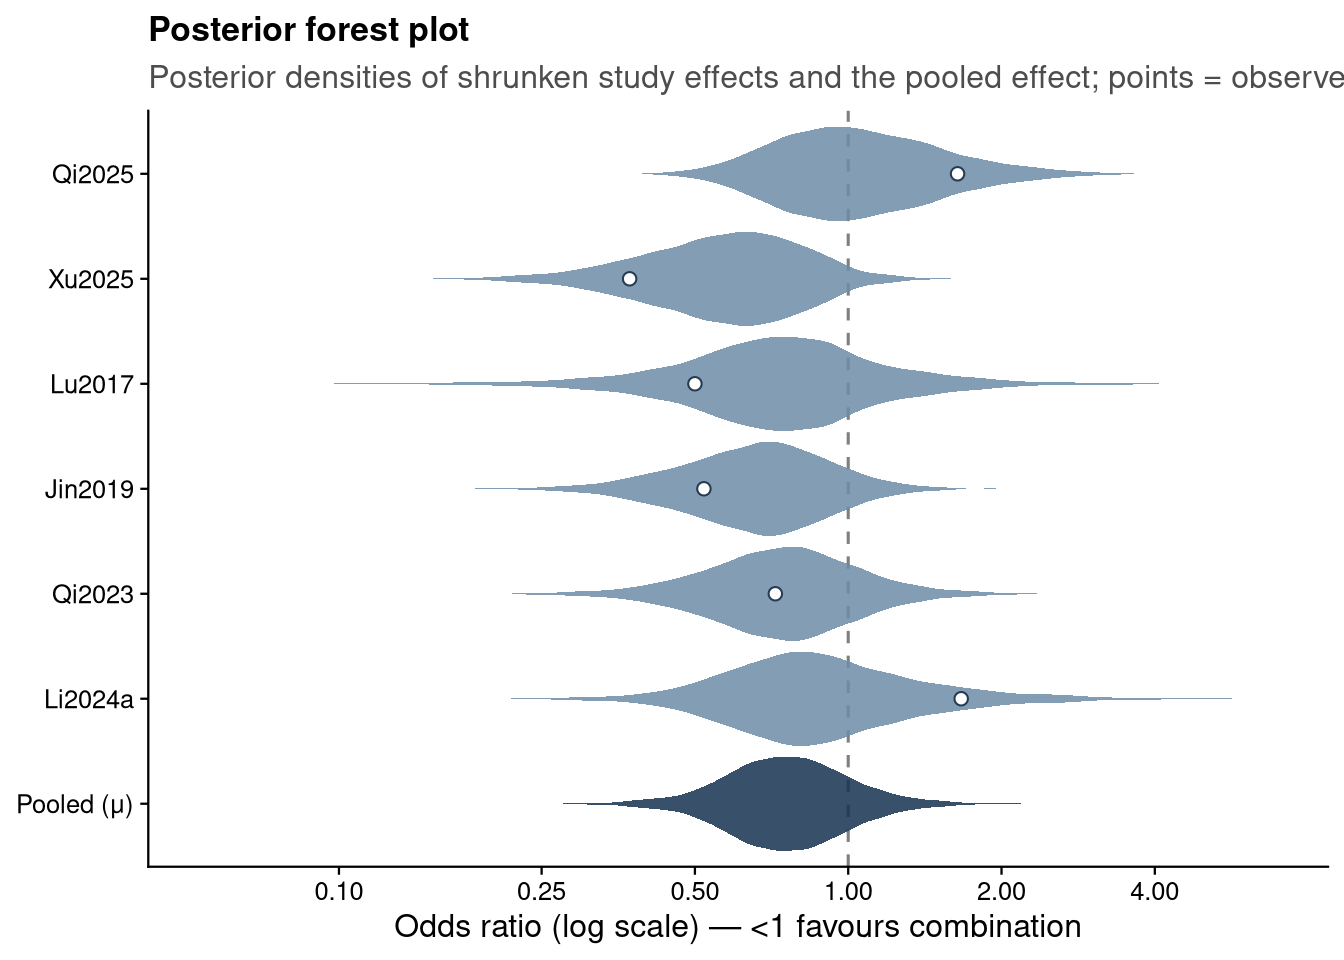
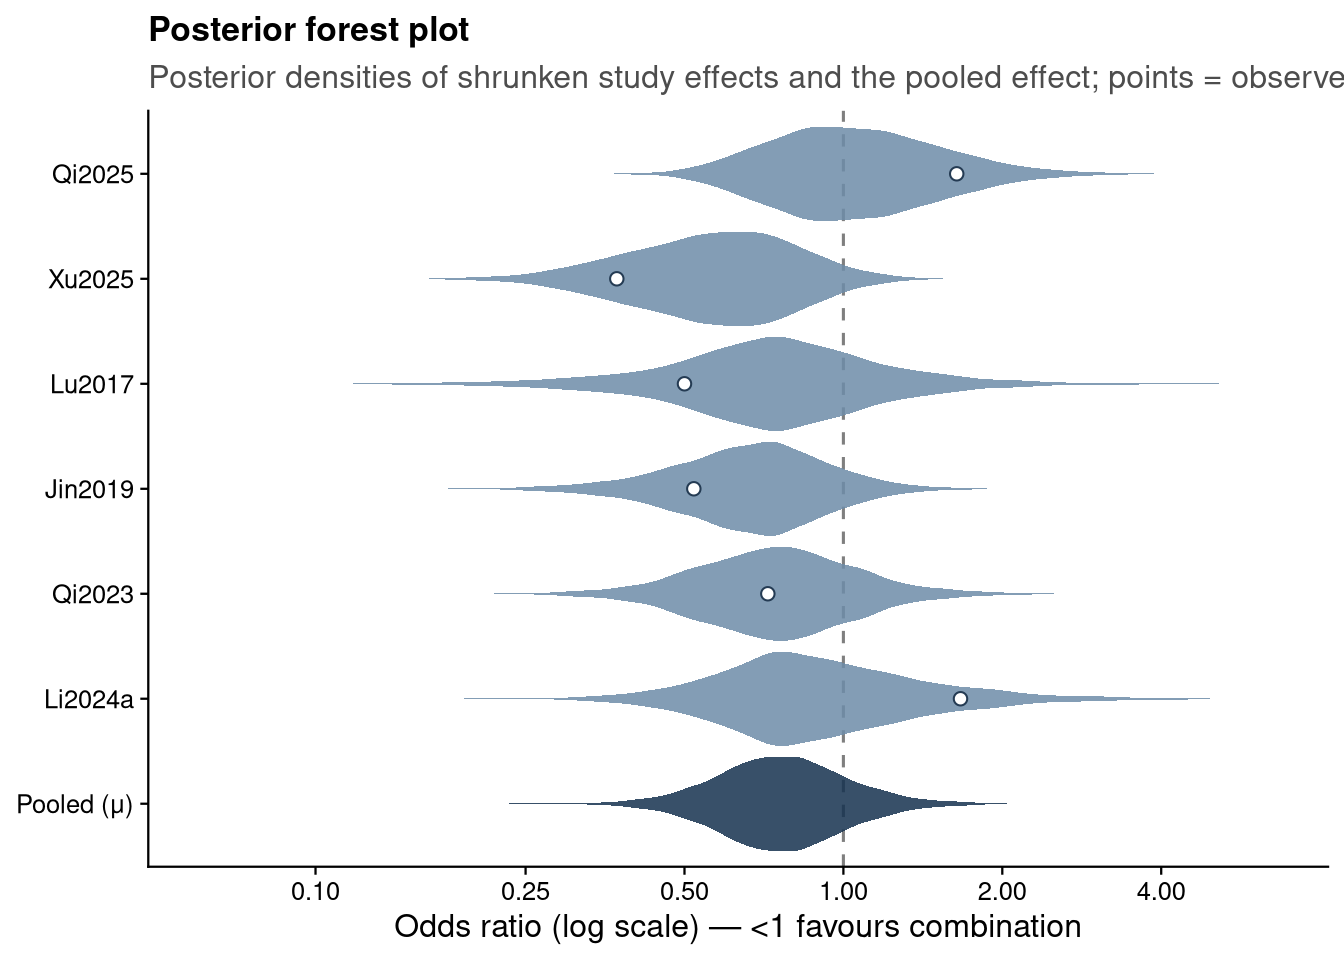
Built site for gh-pages

diff --git a/prisma.html b/prisma.html
@@ -259,7 +259,7 @@ pre > code.sourceCode > span > a:first-child::before { text-decoration: underlin
 <span id="cb1-4"><a href="#cb1-4" aria-hidden="true" tabindex="-1"></a>                   <span class="at">meta_analysis =</span> <span class="cn">TRUE</span>, <span class="at">fontsize =</span> <span class="dv">10</span>)</span></code></pre></div><button title="Copy to Clipboard" class="code-copy-button"><i class="bi"></i></button></div>
 </details>
 <div class="cell-output-display">
-<div class="grViz html-widget html-fill-item" id="htmlwidget-4d4596916db57c328fc7" style="width:100%;height:464px;"></div>
+<div class="grViz html-widget html-fill-item" id="htmlwidget-56a14505726e31d2edaa" style="width:100%;height:464px;"></div>
 <script>
 HTMLWidgets.addPostRenderHandler(function() {
 
@@ -278,7 +278,7 @@ HTMLWidgets.addPostRenderHandler(function() {
     
 });
 </script>
-<script type="application/json" data-for="htmlwidget-4d4596916db57c328fc7">{"x":{"diagram":"digraph TD {\n        graph[\n          splines = ortho,\n          layout = neato,\n          tooltip = \"Click the boxes for further information\",\n          outputorder = edgesfirst,\n        ]node [\n        shape = box,\n        fontsize = 10,\n        fontname = Helvetica,\n        color = Goldenrod1\n      ]\n      identification [\n        color = LightSteelBlue2,\n        label = \" \",\n        style = \"filled,rounded\",\n        pos = \"0,7.875!\",\n        width = 0.4,\n        height = 1.75,\n        tooltip = \"Blue identification box\"\n      ];\n      screening [\n        color = LightSteelBlue2,\n        label = \" \",\n        style = \"filled,rounded\",\n        pos = \"0,4.375!\",\n        width = 0.4,\n        height = 3.75,\n        tooltip = \"Blue screening box\"\n      ];\n      included [\n        color = LightSteelBlue2,\n        label = \" \",\n        style = \"filled,rounded\",\n        pos = \"0,0.25!\",\n        width = 0.4,\n        height = 3.5,\n        tooltip = \"Blue included box\"\n      ];\nnode [\n        shape = box,\n        fontsize = 10,\n        fontname = Helvetica,\n        color = Goldenrod1]\n        3 [\n          label = \"Identification of new studies via databases and registers\",\n          style = \"rounded,filled\",\n          width = 7.5,\n          height = 0.4,\n          pos = \"4.25,9.2!\",\n      tooltip = \"Yellow title box; Identification of new studies via databases and registers\"\n      ]\n        node [\n          shape = box,\n          fontname = Helvetica,\n          color = Black]\n        4 [\n          label = \"Records identified from:\nDatabases (n = 172)\nRegisters (n = 0)\",\n          width = 3.5,\n          height = 0.75,\n          pos = \"2.25,7.875!\",\n          tooltip = \"Records identified from: Databases and Registers\"\n        ]\n        node [\n          shape = box,\n          fontname = Helvetica,\n          color = Black]\n        5 [\n          label = \"Records removed before screening:\nDuplicate records (n = 0)\nRecords marked as ineligible by automation\ntools (n = 0)\nRecords removed for other reasons (n = 0)\",\n          width = 3.5,\n          height = 0.5,\n          pos = \"6.25,7.875!\",\n          tooltip = \"Duplicate records\"\n        ]\n        node [\n          shape = box,\n          fontname = Helvetica,\n          color = Black\n        ]\n        6 [\n          label = \"Records screened\n(n = 172)\",\n          width = 3.5,\n          height = 0.5,\n          pos = \"2.25,6!\",\n          tooltip = \"Records screened (databases and registers)\"\n        ]\n        node [\n          shape = box,\n          fontname = Helvetica,\n          color = Black\n        ]\n        7 [\n          label = \"Records excluded\n(n = 120)\",\n          width = 3.5,\n          height = 0.5,\n          pos = \"6.25,6!\",\n          tooltip = \"Records excluded (databases and registers)\"\n        ]\n        node [\n          shape = box,\n          fontname = Helvetica,\n          color = Black]\n      8 [\n        label = \"Reports sought for retrieval\n(n = 52)\",\n        width = 3.5,\n        height = 0.5,\n        pos = \"2.25,5!\",\n        tooltip = \"Reports sought for retrieval (databases and registers)\"\n      ]\n      node [\n        shape = box,\n        fontname = Helvetica,\n        color = Black]\n      9 [\n        label = \"Reports not retrieved\n(n = 4)\",\n        width = 3.5,\n        height = 0.5,\n        pos = \"6.25,5!\",\n        tooltip = \"Reports not retrieved (databases and registers)\"\n      ]\n      node [\n        shape = box,\n        fontname = Helvetica,\n        color = Black]\n        10 [\n          label = \"Reports assessed for eligibility\n(n = 48)\",\n          width = 3.5,\n          height = 0.5,\n          pos = \"2.25,3.375!\",\n          tooltip = \"Reports assessed for eligibility (databases and registers)\"\n        ]\n        node [\n          shape = box,\n          fontname = Helvetica,\n          color = Black,\n          fillcolor = White,\n          style = filled\n        ]\n        11 [\n          label = \"Reports excluded:\nNo eligible antifungal-regimen\ncontrast (n = 11)\nDescriptive or prognostic-factor\nstudy (n = 8)\nSingle-arm case series or case\nreport (n = 7)\",\n          width = 3.5,\n          height = 0.5,\n          pos = \"6.25,3.375!\",\n      tooltip = \"Reports excluded (databases and registers)\"\n      ]\n      node [\n        shape = box,\n        fontname = Helvetica,\n        color = Black,\n      fillcolor = \"\",\n      style = solid\n      ]\n      12 [\n        label = \"New studies included in review\n(n = 21)\nReports of new included studies\n(n = 22)\",\n        width = 3.5,\n        height = 1,\n        pos = \"2.25,1!\",\n        tooltip = \"New studies included in review\"\n      ]node [\n      shape = box,\n      fontname = Helvetica,\n      color = Black,\n      fillcolor = \"\",\n      style = solid\n    ]\n    23 [\n      label = \"Total studies included in\nmeta-analysis (n = 6)\nReports of total included studies\nin meta-analysis (n = 6)\",\n      width = 3.5,\n      height = 1,\n      pos = \"2.25,-0.5!\",\n      tooltip = \"Total studies included in meta-analysis\"\n    ]node [\n        shape = square,\n        width = 0,\n        color=White\n      ]\n\n\nnode [\n        shape = square,\n        width = 0,\n        style=invis\n      ]\n      C [\n        label = \"\",\n        width = 3.5,\n        height = 0.5,\n        pos = \"6.25,3.375!\",\n        tooltip = \"\"\n      ]\n      subgraph cluster1 {\n        edge [\n          style = invis\n      ]\n      3->4;\n      3->5;\n      edge [\n        color = Black,\n        arrowhead = normal,\n        arrowtail = none,\n        style = filled\n      ]\n      4->5;\n      4->6;\n      6->7;\n      6->8;\n      8->9;\n      8->10;\n      10->C;\n      10->12;\n      edge [\n      style = invis\n      ]\n      5->7;\n      7->9;\n      9->11;\n      \n      }\nedge [\n          color = \"Black\",\n          arrowhead = \"normal\",\n          arrowtail = \"none\"\n        ]\n        12->23;\n\n\n\n{\n      rank = same; 3}\n      {\n      rank = same; 4; 5}\n        {\n          rank = same; 6; 7\n        }\n        {\n          rank = same; 8; 9}\n      {\n      rank = same; 10; 11}\n      {\n      rank = same; 12}\n      }","config":{"engine":"dot","options":null}},"evals":[],"jsHooks":[]}</script>
+<script type="application/json" data-for="htmlwidget-56a14505726e31d2edaa">{"x":{"diagram":"digraph TD {\n        graph[\n          splines = ortho,\n          layout = neato,\n          tooltip = \"Click the boxes for further information\",\n          outputorder = edgesfirst,\n        ]node [\n        shape = box,\n        fontsize = 10,\n        fontname = Helvetica,\n        color = Goldenrod1\n      ]\n      identification [\n        color = LightSteelBlue2,\n        label = \" \",\n        style = \"filled,rounded\",\n        pos = \"0,7.875!\",\n        width = 0.4,\n        height = 1.75,\n        tooltip = \"Blue identification box\"\n      ];\n      screening [\n        color = LightSteelBlue2,\n        label = \" \",\n        style = \"filled,rounded\",\n        pos = \"0,4.375!\",\n        width = 0.4,\n        height = 3.75,\n        tooltip = \"Blue screening box\"\n      ];\n      included [\n        color = LightSteelBlue2,\n        label = \" \",\n        style = \"filled,rounded\",\n        pos = \"0,0.25!\",\n        width = 0.4,\n        height = 3.5,\n        tooltip = \"Blue included box\"\n      ];\nnode [\n        shape = box,\n        fontsize = 10,\n        fontname = Helvetica,\n        color = Goldenrod1]\n        3 [\n          label = \"Identification of new studies via databases and registers\",\n          style = \"rounded,filled\",\n          width = 7.5,\n          height = 0.4,\n          pos = \"4.25,9.2!\",\n      tooltip = \"Yellow title box; Identification of new studies via databases and registers\"\n      ]\n        node [\n          shape = box,\n          fontname = Helvetica,\n          color = Black]\n        4 [\n          label = \"Records identified from:\nDatabases (n = 172)\nRegisters (n = 0)\",\n          width = 3.5,\n          height = 0.75,\n          pos = \"2.25,7.875!\",\n          tooltip = \"Records identified from: Databases and Registers\"\n        ]\n        node [\n          shape = box,\n          fontname = Helvetica,\n          color = Black]\n        5 [\n          label = \"Records removed before screening:\nDuplicate records (n = 0)\nRecords marked as ineligible by automation\ntools (n = 0)\nRecords removed for other reasons (n = 0)\",\n          width = 3.5,\n          height = 0.5,\n          pos = \"6.25,7.875!\",\n          tooltip = \"Duplicate records\"\n        ]\n        node [\n          shape = box,\n          fontname = Helvetica,\n          color = Black\n        ]\n        6 [\n          label = \"Records screened\n(n = 172)\",\n          width = 3.5,\n          height = 0.5,\n          pos = \"2.25,6!\",\n          tooltip = \"Records screened (databases and registers)\"\n        ]\n        node [\n          shape = box,\n          fontname = Helvetica,\n          color = Black\n        ]\n        7 [\n          label = \"Records excluded\n(n = 120)\",\n          width = 3.5,\n          height = 0.5,\n          pos = \"6.25,6!\",\n          tooltip = \"Records excluded (databases and registers)\"\n        ]\n        node [\n          shape = box,\n          fontname = Helvetica,\n          color = Black]\n      8 [\n        label = \"Reports sought for retrieval\n(n = 52)\",\n        width = 3.5,\n        height = 0.5,\n        pos = \"2.25,5!\",\n        tooltip = \"Reports sought for retrieval (databases and registers)\"\n      ]\n      node [\n        shape = box,\n        fontname = Helvetica,\n        color = Black]\n      9 [\n        label = \"Reports not retrieved\n(n = 4)\",\n        width = 3.5,\n        height = 0.5,\n        pos = \"6.25,5!\",\n        tooltip = \"Reports not retrieved (databases and registers)\"\n      ]\n      node [\n        shape = box,\n        fontname = Helvetica,\n        color = Black]\n        10 [\n          label = \"Reports assessed for eligibility\n(n = 48)\",\n          width = 3.5,\n          height = 0.5,\n          pos = \"2.25,3.375!\",\n          tooltip = \"Reports assessed for eligibility (databases and registers)\"\n        ]\n        node [\n          shape = box,\n          fontname = Helvetica,\n          color = Black,\n          fillcolor = White,\n          style = filled\n        ]\n        11 [\n          label = \"Reports excluded:\nNo eligible antifungal-regimen\ncontrast (n = 11)\nDescriptive or prognostic-factor\nstudy (n = 8)\nSingle-arm case series or case\nreport (n = 7)\",\n          width = 3.5,\n          height = 0.5,\n          pos = \"6.25,3.375!\",\n      tooltip = \"Reports excluded (databases and registers)\"\n      ]\n      node [\n        shape = box,\n        fontname = Helvetica,\n        color = Black,\n      fillcolor = \"\",\n      style = solid\n      ]\n      12 [\n        label = \"New studies included in review\n(n = 21)\nReports of new included studies\n(n = 22)\",\n        width = 3.5,\n        height = 1,\n        pos = \"2.25,1!\",\n        tooltip = \"New studies included in review\"\n      ]node [\n      shape = box,\n      fontname = Helvetica,\n      color = Black,\n      fillcolor = \"\",\n      style = solid\n    ]\n    23 [\n      label = \"Total studies included in\nmeta-analysis (n = 6)\nReports of total included studies\nin meta-analysis (n = 6)\",\n      width = 3.5,\n      height = 1,\n      pos = \"2.25,-0.5!\",\n      tooltip = \"Total studies included in meta-analysis\"\n    ]node [\n        shape = square,\n        width = 0,\n        color=White\n      ]\n\n\nnode [\n        shape = square,\n        width = 0,\n        style=invis\n      ]\n      C [\n        label = \"\",\n        width = 3.5,\n        height = 0.5,\n        pos = \"6.25,3.375!\",\n        tooltip = \"\"\n      ]\n      subgraph cluster1 {\n        edge [\n          style = invis\n      ]\n      3->4;\n      3->5;\n      edge [\n        color = Black,\n        arrowhead = normal,\n        arrowtail = none,\n        style = filled\n      ]\n      4->5;\n      4->6;\n      6->7;\n      6->8;\n      8->9;\n      8->10;\n      10->C;\n      10->12;\n      edge [\n      style = invis\n      ]\n      5->7;\n      7->9;\n      9->11;\n      \n      }\nedge [\n          color = \"Black\",\n          arrowhead = \"normal\",\n          arrowtail = \"none\"\n        ]\n        12->23;\n\n\n\n{\n      rank = same; 3}\n      {\n      rank = same; 4; 5}\n        {\n          rank = same; 6; 7\n        }\n        {\n          rank = same; 8; 9}\n      {\n      rank = same; 10; 11}\n      {\n      rank = same; 12}\n      }","config":{"engine":"dot","options":null}},"evals":[],"jsHooks":[]}</script>
 </div>
 </div>
 <div class="callout callout-style-default callout-note callout-titled">

diff --git a/bayesian.html b/bayesian.html
@@ -321,7 +321,7 @@ pre > code.sourceCode > span > a:first-child::before { text-decoration: underlin
 <details class="code-fold">
 <summary>Show code</summary>
 <div class="code-copy-outer-scaffold"><div class="sourceCode cell-code" id="cb3"><pre class="sourceCode r code-with-copy"><code class="sourceCode r"><span id="cb3-1"><a href="#cb3-1" aria-hidden="true" tabindex="-1"></a><span class="fu">set.seed</span>(<span class="dv">7183</span>)</span>
-<span id="cb3-2"><a href="#cb3-2" aria-hidden="true" tabindex="-1"></a>ps <span class="ot">&lt;-</span> bm_sens<span class="sc">$</span><span class="fu">rposterior</span>(<span class="at">n =</span> <span class="dv">6000</span>)   <span class="co"># columns: tau, mu (log-OR scale)</span></span>
+<span id="cb3-2"><a href="#cb3-2" aria-hidden="true" tabindex="-1"></a>ps <span class="ot">&lt;-</span> bm_sens<span class="sc">$</span><span class="fu">rposterior</span>(<span class="at">n =</span> <span class="dv">4000</span>)   <span class="co"># columns: tau, mu (log-OR scale)</span></span>
 <span id="cb3-3"><a href="#cb3-3" aria-hidden="true" tabindex="-1"></a></span>
 <span id="cb3-4"><a href="#cb3-4" aria-hidden="true" tabindex="-1"></a><span class="co"># Conditional posterior of each study's true effect given (mu, tau, y_i, sei_i)</span></span>
 <span id="cb3-5"><a href="#cb3-5" aria-hidden="true" tabindex="-1"></a>theta_draws <span class="ot">&lt;-</span> purrr<span class="sc">::</span><span class="fu">map_dfr</span>(<span class="fu">seq_len</span>(<span class="fu">nrow</span>(ma)), <span class="cf">function</span>(i) {</span>
